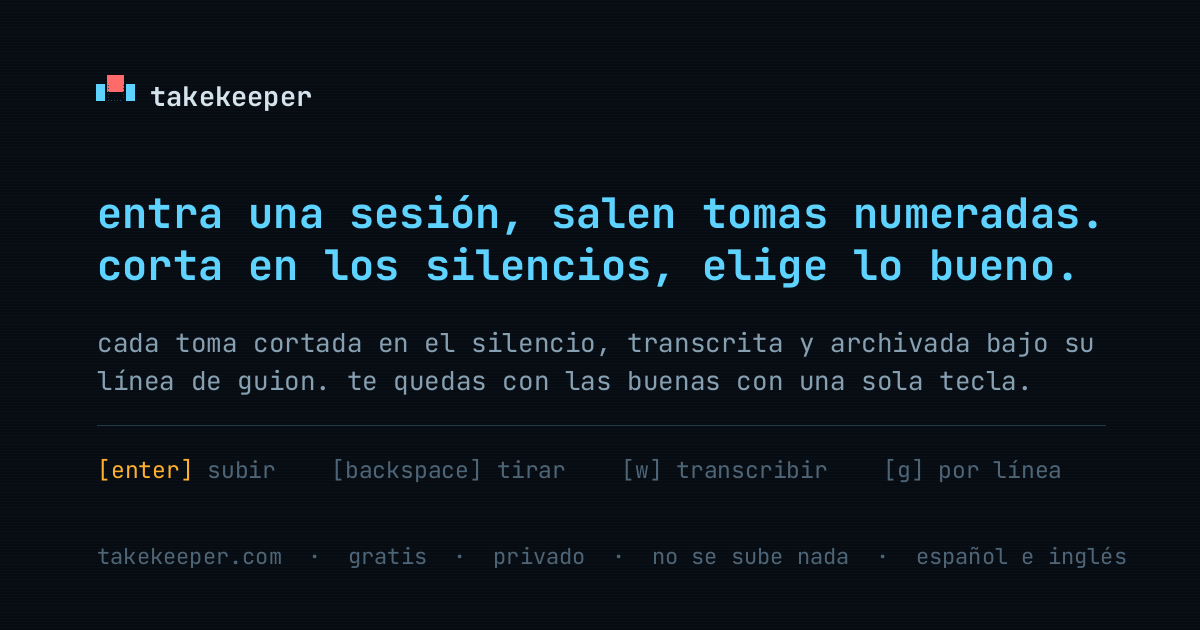
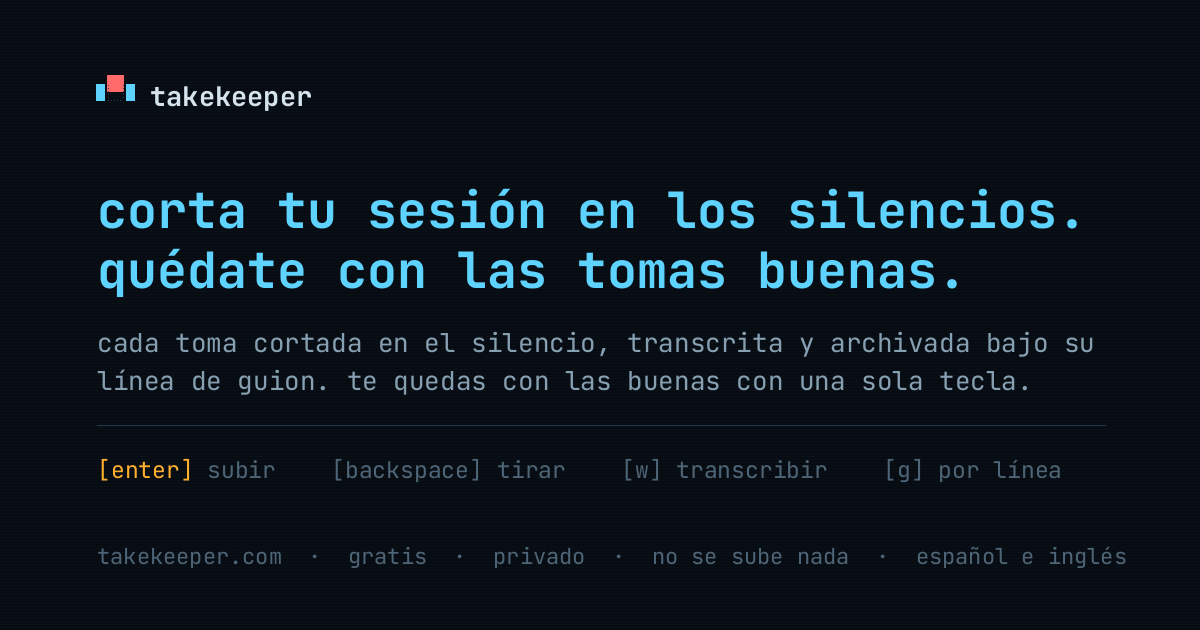
Landing: verb-first title, and the project file line lives in the drop zone
The title goes back to 'split your session at the silences. keep the good
takes.', which also frees the type: the previous Spanish line was what capped it
at 29px, so it is 32px now. The .takekeeper.json line moved inside the drop
zone, where you would actually drop it, and still only appears once you have a
saved session.

Changed region(s): [[0.0617, 0.3921, 0.8942, 0.4825], [0.0617, 0.3016, 0.925, 0.3619]]

diff --git a/index.html b/index.html
@@ -15,7 +15,7 @@
     <link rel="alternate" hreflang="x-default" href="https://takekeeper.com/" />
     <meta property="og:type" content="website" />
     <meta property="og:site_name" content="Takekeeper" />
-    <meta property="og:title" content="Takekeeper: one session in, a folder of takes out." />
+    <meta property="og:title" content="Takekeeper: split your session at the silences. keep the good takes." />
     <meta property="og:description" content="Drop the long WAV from a voice-over session. It is cut at every silence, each take is matched to your script, and you keep the good ones line by line with one key. Runs in your browser on your own GPU. Nothing uploaded." />
     <meta property="og:url" content="https://takekeeper.com/" />
     <meta property="og:locale" content="en_US" />
@@ -44,8 +44,8 @@
         <section class="hero">
           <p class="eyebrow">for voice actors and narrators. it is free.</p>
           <h1>
-            <span>one session in, a folder of takes out.</span>
-            <span>split at the silences, keep the best.</span>
+            <span>split your session at the silences.</span>
+            <span>keep the good takes.</span>
           </h1>
           <p class="lead">
             each take is cut at the silence around it, transcribed and filed under its script line. you keep the ones you want with one key.

diff --git a/src/ui/Empty.tsx b/src/ui/Empty.tsx
@@ -57,8 +57,8 @@ export function Empty() {
         <section class="hero">
           <p class="eyebrow">{t('for voice actors and narrators. it is free.')}</p>
           <h1>
-            <span>{t('one session in, a folder of takes out.')}</span>
-            <span>{t('split at the silences, keep the best.')}</span>
+            <span>{t('split your session at the silences.')}</span>
+            <span>{t('keep the good takes.')}</span>
           </h1>
           <p class="lead">{t('each take is cut at the silence around it, transcribed and filed under its script line. you keep the ones you want with one key.')}</p>
 
@@ -77,11 +77,11 @@ export function Empty() {
             <span class="muted">
               <T k="or press [[ctrl o]] to browse · any length · nothing leaves your computer" />
             </span>
+            {sessions.length > 0 && <span class="dim">{t('coming back to one? drop the .takekeeper.json you saved, then its wav')}</span>}
           </button>
 
           {sessions.length > 0 && (
             <div class="sessions">
-              <p class="back">{t('coming back to one? drop the .takekeeper.json you saved, then its wav')}</p>
               {sessions.map((r) => {
                 const asking = confirm === r.key;
                 return (

diff --git a/landing/plugin.ts b/landing/plugin.ts
@@ -22,7 +22,7 @@ const EN: Meta = {
   title: 'Takekeeper: sort voice-over takes in your browser',
   description:
     'Drop an hour-long WAV of voice-over takes. Takekeeper cuts it at the silences, transcribes every take on your own GPU, matches each one to your script, and lets you keep the good ones line by line with the keyboard. Multi-pass lanes, junk detection, split, merge, trim, export straight into FL Studio or any DAW. Free, private, nothing uploaded.',
-  ogTitle: 'Takekeeper: one session in, a folder of takes out.',
+  ogTitle: 'Takekeeper: split your session at the silences. keep the good takes.',
   ogDescription:
     'Drop the long WAV from a voice-over session. It is cut at every silence, each take is matched to your script, and you keep the good ones line by line with one key. Runs in your browser on your own GPU. Nothing uploaded.',
   appDescription:

diff --git a/src/i18n.tsx b/src/i18n.tsx
@@ -12,8 +12,8 @@ const es = {
   settings: 'ajustes',
   keys: 'teclas',
   'for voice actors and narrators. it is free.': 'para actores de doblaje y locutores. es gratis.',
-  'one session in, a folder of takes out.': 'entra una sesión, salen tomas numeradas.',
-  'split at the silences, keep the best.': 'corta en los silencios, elige lo bueno.',
+  'split your session at the silences.': 'corta tu sesión en los silencios.',
+  'keep the good takes.': 'quédate con las tomas buenas.',
   'each take is cut at the silence around it, transcribed and filed under its script line. you keep the ones you want with one key.':
     'cada toma se corta en el silencio, se transcribe y se archiva bajo su línea de guion. te quedas con las buenas con una sola tecla.',
   'drop your session wav here': 'suelta aquí el wav de tu sesión',

diff --git a/src/styles.css b/src/styles.css
@@ -305,9 +305,9 @@ hr {
   color: var(--dim);
 }
 /* the title is the one thing on the page written by a person, so it is not structural cyan.
-   29px keeps the longest spanish line at 696 of the 720px box, with room for the font swap. */
+   32px keeps the longest line (english, 35 characters) at 672 of the 720px box. */
 .hero h1 {
-  font-size: clamp(20px, 2vw, 29px);
+  font-size: clamp(20px, 2.2vw, 32px);
   color: var(--text);
   font-weight: 500;
   line-height: 1.35;
@@ -360,11 +360,6 @@ hr {
 .sessions {
   display: grid;
   gap: 6px;
-}
-.sessions .back {
-  color: var(--dim);
-  font-size: 12.5px;
-  margin: 2px 0 2px;
 }
 /* narrow desktop windows: nothing here is a phone design, it just must not scroll sideways */
 @media (max-width: 620px) {

diff --git a/landing/es.html b/landing/es.html
@@ -7,8 +7,8 @@
         <section class="hero">
           <p class="eyebrow">para actores de doblaje y locutores. es gratis.</p>
           <h1>
-            <span>entra una sesión, salen tomas numeradas.</span>
-            <span>corta en los silencios, elige lo bueno.</span>
+            <span>corta tu sesión en los silencios.</span>
+            <span>quédate con las tomas buenas.</span>
           </h1>
           <p class="lead">
             cada toma se corta en el silencio, se transcribe y se archiva bajo su línea de guion. te quedas con las buenas con una sola tecla.

diff --git a/scripts/og.py b/scripts/og.py
@@ -12,14 +12,14 @@ R = lambda s: ImageFont.truetype(f"{fonts}/jbm-400.ttf", s)
 
 COPY = {
     "en": {
-        "title": ["one session in, a folder of takes out.", "split at the silences, keep the best."],
+        "title": ["split your session at the silences.", "keep the good takes."],
         "sub": ["every take cut at the silence around it, transcribed and filed", "under its script line. you keep the ones you want with one key."],
         "keys": [("[enter]", "keep", AMBER), ("[backspace]", "drop", DIM), ("[w]", "transcribe", DIM), ("[g]", "by line", DIM)],
         "foot": "takekeeper.com  ·  free  ·  private  ·  nothing uploaded  ·  spanish & english",
         "file": "public/og.png",
     },
     "es": {
-        "title": ["entra una sesión, salen tomas numeradas.", "corta en los silencios, elige lo bueno."],
+        "title": ["corta tu sesión en los silencios.", "quédate con las tomas buenas."],
         "sub": ["cada toma cortada en el silencio, transcrita y archivada bajo su", "línea de guion. te quedas con las buenas con una sola tecla."],
         "keys": [("[enter]", "subir", AMBER), ("[backspace]", "tirar", DIM), ("[w]", "transcribir", DIM), ("[g]", "por línea", DIM)],
         "foot": "takekeeper.com  ·  gratis  ·  privado  ·  no se sube nada  ·  español e inglés",

diff --git a/docs/dev-notes.md b/docs/dev-notes.md
@@ -12,7 +12,7 @@ Practical notes for working on Takekeeper. The product itself is described in `t
 - `src/audio/`: `wav.ts` (byte-level WAV source, lazy `Blob.slice`, decode/encode samples, header), `analyze.ts` (per-frame dB, `segment`, `segmentRange`), `export.ts` (clip blobs with fades, merged file, store-method zip, folder save via File System Access), `player.ts` (Web Audio playback with a `GainNode`).
 - `src/ai/`: `whisper.worker.ts` (transformers.js pipeline in a module worker), `transcriber.ts` (client, models, device detection), `audio.ts` (clip → mono 16 kHz), `align.ts` (normalisation, similarity, Viterbi `alignTakes`, `diagnose`, `groupWords`, `cleanTranscript`).
 - `src/ui/`: `Empty.tsx` (landing hero + sessions list), `Editor.tsx`, `Overview.tsx`, `ClipView.tsx`, `ScriptPanel.tsx`, `Toolbar.tsx`, `Modals.tsx` (settings, export, transcribe, help, goto), `Logo.tsx`.
-- The landing fold is deliberate and measured: at 1440x780 (a real laptop) the header, one thin line, a two-line title, a two-line lead and the drop zone end by 404, and `#look` starts at 432 so about 45% of the editor screenshot is visible above the fold and cut by it. That is the proof, so keep it there: `.hero` padding, `#landing` padding-top and the title size are what move it. The title is sized `clamp(20px, 2vw, 29px)` because at 29px the longest Spanish line is 696px of the 720px content box; each sentence is its own `<span>` so a rounding error can never wrap it to three lines. The drop zone is the only amber thing above the fold, and it is a real `<button>`.
+- The landing fold is deliberate and measured: at 1440x780 (a real laptop) the header, one thin line, a two-line title, a two-line lead and the drop zone end by 404, and `#look` starts at 432 so about 45% of the editor screenshot is visible above the fold and cut by it. That is the proof, so keep it there: `.hero` padding, `#landing` padding-top and the title size are what move it. The title is sized `clamp(20px, 2.2vw, 32px)` because at 32px the longest line (the English first sentence, 35 characters) is 672px of the 720px content box; each sentence is its own `<span>` so a rounding error can never wrap it to three lines. The drop zone is the only amber thing above the fold, and it is a real `<button>`.
 - The hero exists three times and they must stay identical in shape: `src/ui/Empty.tsx` (the real one), the `<!-- hero -->` block in `index.html` and the `<!-- @hero -->` block in `landing/es.html` (both static, for crawlers and for the frame before the app mounts). Verified with JavaScript disabled: the static frame puts `.drop` and `.shot` at exactly the same y as the mounted app, so there is no shift.
 - `src/tour.ts` + `src/ui/Tour.tsx`: the four first-run cards. Step data (selectors to point at, placement, copy keys) lives in `tour.ts` so the store can count steps without importing the ui; `settings.toured` remembers it, `[ tour ]` in the keys panel replays it.
 - `public/manifest.webmanifest`, `public/sw.js`: installable on the desktop. The worker caches same-origin GETs only (network-first for pages so a deploy lands, cache-first for hashed assets); the model and the fonts are other origins and keep their own caches. It registers in production only.

diff --git a/docs/takekeeper-brief.md b/docs/takekeeper-brief.md
@@ -8,7 +8,7 @@ A reference document about Takekeeper (takekeeper.com) for writing articles, pos
 
 Takekeeper is a free, browser-based take-selection tool for voice actors. You record a session as one long WAV, take after take with silence between them, and drop that file on the page. It splits the recording into individual takes in seconds, transcribes each take on your own GPU (nothing is uploaded), matches every take to the line of your script it belongs to, and then lets you keep the good ones line by line with the keyboard alone, in as many passes as you need. The keepers export as numbered WAV files in script order, with silent gap files between them, so the folder drops onto one FL Studio track already spaced and ordered.
 
-**Taglines in use:** "one session in, a folder of takes out. split at the silences, keep the best." (hero, and the OG image verbatim) · "take triage for voice actors" (descriptor) · "entra una sesión, salen tomas numeradas. corta en los silencios, elige lo bueno." (Spanish hero).
+**Taglines in use:** "split your session at the silences. keep the good takes." (hero, and the OG image verbatim) · "take triage for voice actors" (descriptor) · "corta tu sesión en los silencios. quédate con las tomas buenas." (Spanish hero).
 
 ---
 
